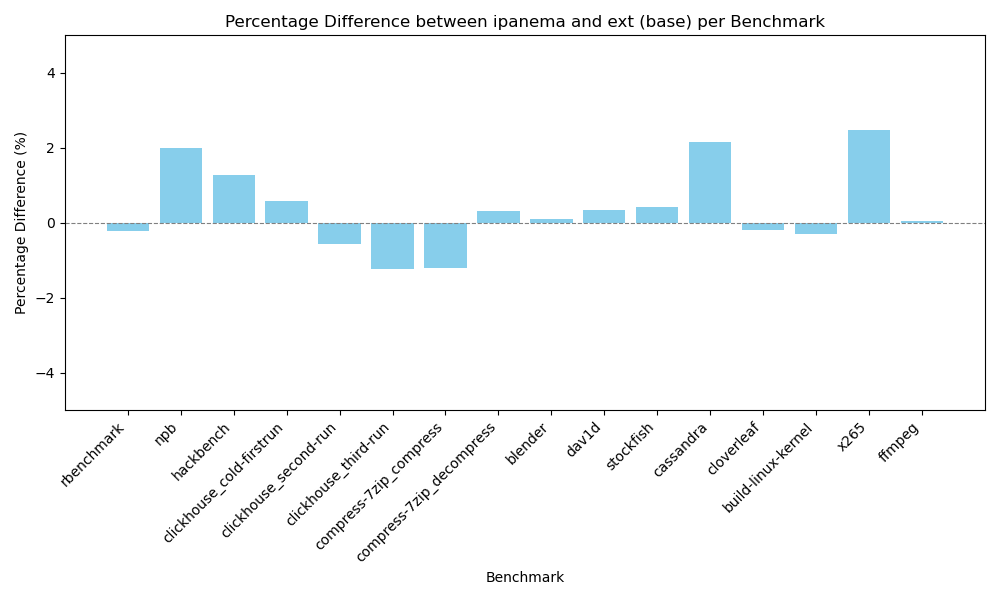
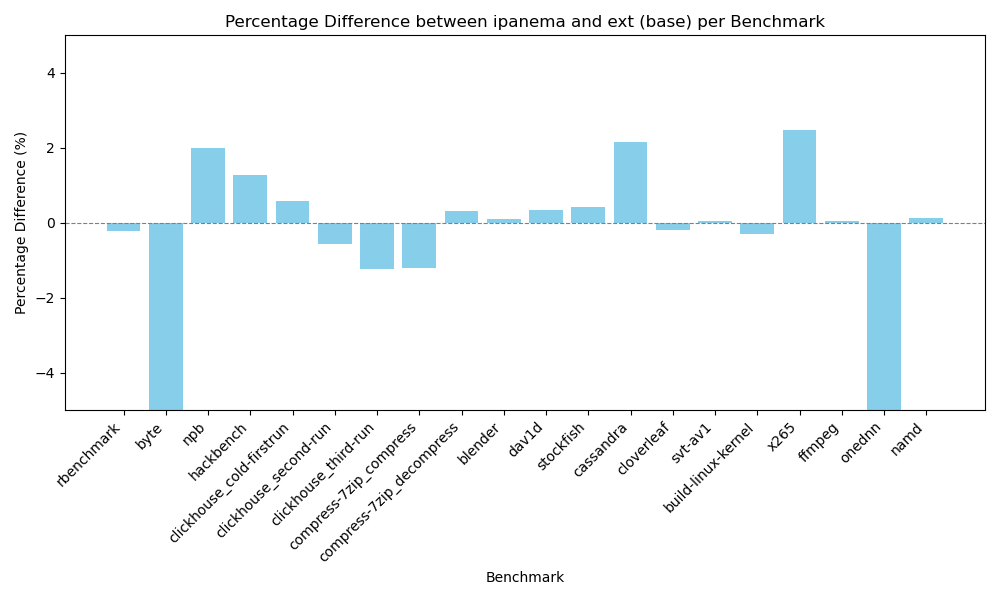
update

diff --git a/code/run-benchmarks/boxplot-apps.py b/code/run-benchmarks/boxplot-apps.py
@@ -122,6 +122,46 @@ benchmarks_description = {
         }
                 ]
         },
+        "svt-av1" : {
+                "metrics" : [
+                        {
+                "metric" : "Frames per second (fps)",
+                "reading": "Higher is better",
+                "title": "Encoder preset 13 - Input: Bosphorus 4K",
+                "parsed_filename" : "parsed.txt"
+        }
+                ]
+        },
+        "namd" : {
+                "metrics" : [
+                        {
+                "metric" : "ns/day",
+                "reading": "Higher is better",
+                "title": "ATParse with 327,506 Atoms",
+                "parsed_filename" : "parsed.txt"
+        }
+                ]
+        },
+        "byte" : {
+                "metrics" : [
+                        {
+                "metric" : "LPS",
+                "reading": "Higher is better",
+                "title": "Dhrystone 2",
+                "parsed_filename" : "parsed.txt"
+        }
+                ]
+        },
+        "onednn" : {
+                "metrics" : [
+                        {
+                "metric" : "Time (ms)",
+                "reading": "Lower is better",
+                "title": "Convolution Batch Shapes Auto - CPU",
+                "parsed_filename" : "parsed.txt"
+        }
+                ]
+        },
         "compress-7zip" :  {
                 "multiple": True,
                 "metrics" : [
